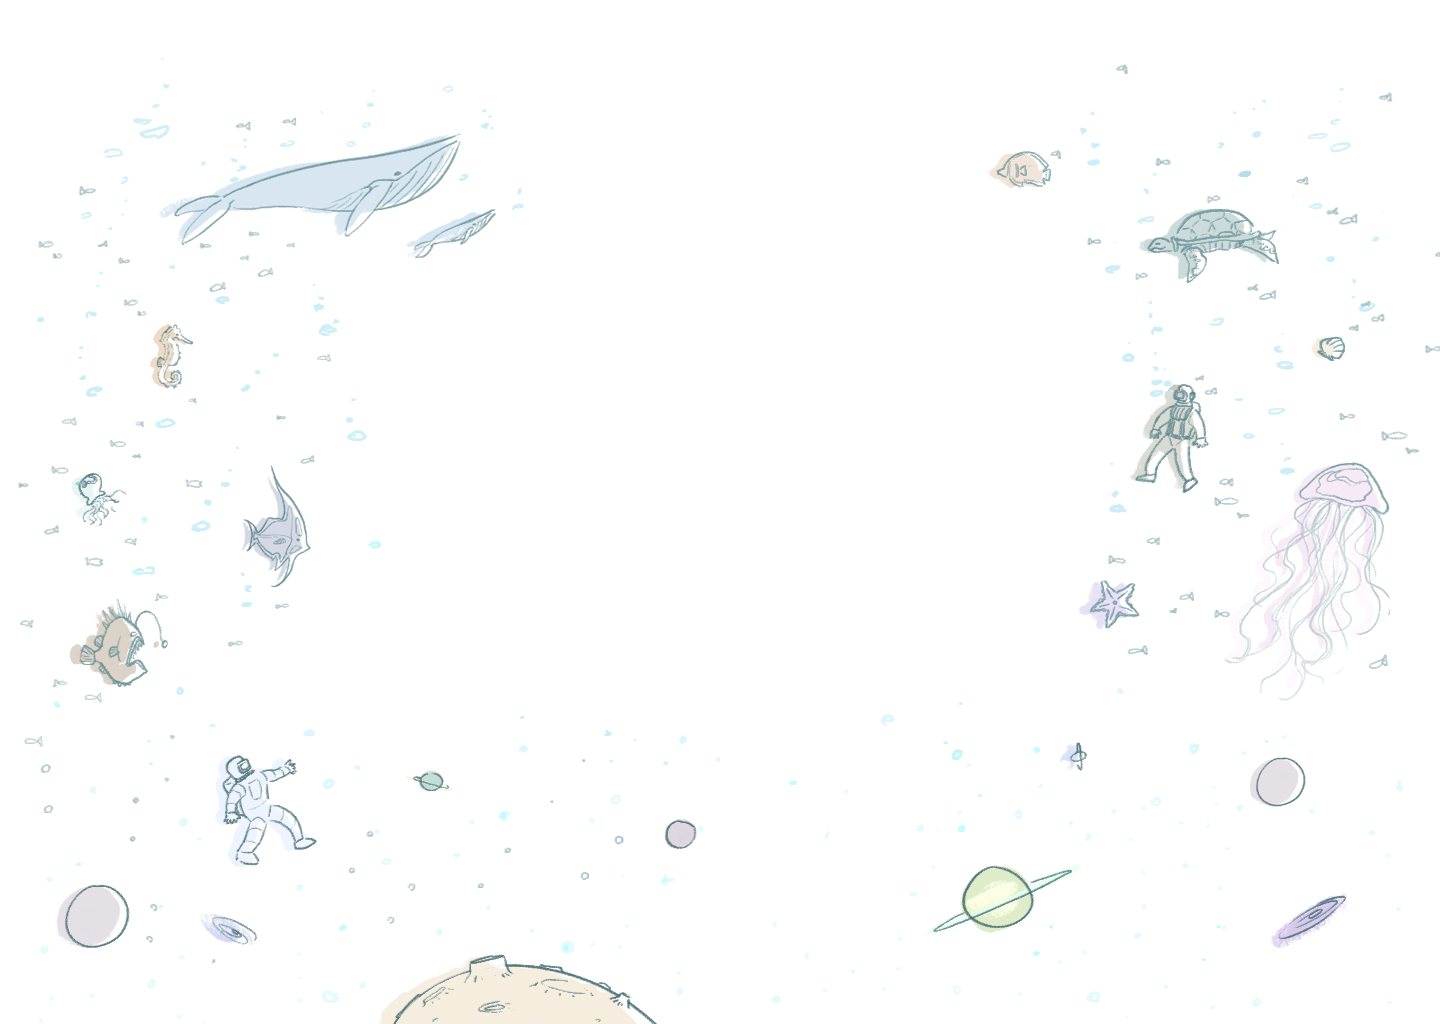
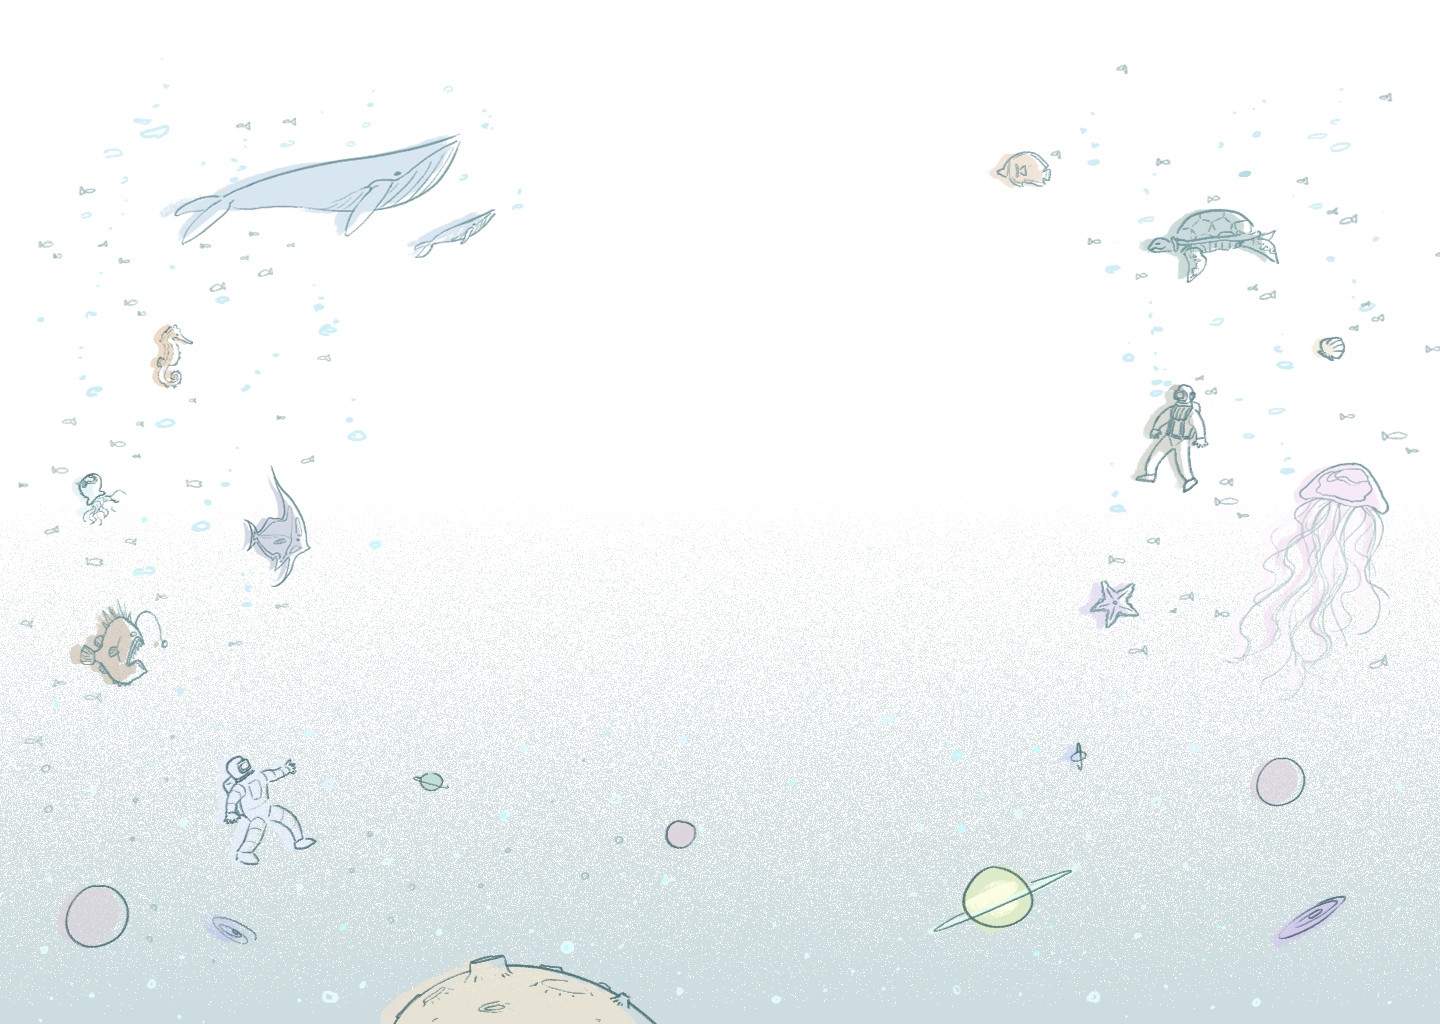
Changes

Changed region(s): [[0.0, 0.5312, 1.0, 1.0]]

diff --git a/index.html b/index.html
@@ -23,19 +23,19 @@
                 <a id="portfolioLink" onclick="shiftLeft('portfolio')" href="#">PORTFOLIO</a>
                 <div style="display: none;" id="portfolio-categories">
                     <ul class="dashed">
-                        <li><a href="#">General</a></li>
-                        <li><a href="#">Book Illustration</a></li>
-                        <li><a href="#">Animation</a></li>
-                        <li><a href="#">Sketches</a></li>
+                        <li><a href="#">GENERAL</a></li>
+                        <li><a href="#">BOOK ILLUSTRATION</a></li>
+                        <li><a href="#">ANIMATION</a></li>
+                        <li><a href="#">SKETCHES</a></li>
                     </ul>
                 </div>
                 <a id="aboutLink" onclick="shiftLeft('about')" href="#">ABOUT</a>
                 <a style="display: none;" id="contactLink" href="mailto:yophwv@gmail.com">CONTACT</a>
+                <div style="display: none;" id="social-media">
+                    <a target="_blank" href="https://www.instagram.com/yophwv/"><img src="./images/instagram.svg"></a>
+                    <a target="_blank" href="https://www.linkedin.com/in/amy-doh-012812254/"><img src="./images/linkedin.svg"></a>
+                </div>
             </nav>
-            <div style="display: none;" id="social-media">
-                <a target="_blank" href="https://www.instagram.com/yophwv/"><img src="./images/instagram.svg"></a>
-                <a target="_blank" href="https://www.linkedin.com/in/amy-doh-012812254/"><img src="./images/linkedin.svg"></a>
-            </div>
         </div>
     </header>
     <main id="mainContent" class="landingMain">

diff --git a/style.css b/style.css
@@ -11,6 +11,8 @@ a, a:link, a:visited {
 }
 
 #about {
+    background-image: url("./images/about-bg.png");
+    background-size: cover;
     background-color: white;
     display: flex;
     flex-direction: column;
@@ -21,10 +23,11 @@ a, a:link, a:visited {
 }
 
 #social-media {
-    margin-top: 5em;
+    margin-top: 2EM;
 }
 
 #about p {
+    font-size: clamp(1rem, 0.2958rem + 2.2535vw, 1.2rem);
     font-family: 'Harmattan', sans-serif;
 }
 
@@ -86,12 +89,12 @@ header > div {
     min-width: auto;
     height: 100%;
     clip-path: none;
-    padding: 1.5em 1em;
+    padding-left: 1em;
 }
 
 header > div > h1 {
     font-family: 'Wire One', sans-serif;
-    margin-top: 1em;
+    margin-top: 0.5em;
 }
 
 header > div > nav {
@@ -259,5 +262,9 @@ section > div {
     .chocolat-parent > a > img {
         height: 25vw;
         width: 25vw;
+    }
+
+    header > div > h1 {
+        margin-top: 1em;
     }
 }
